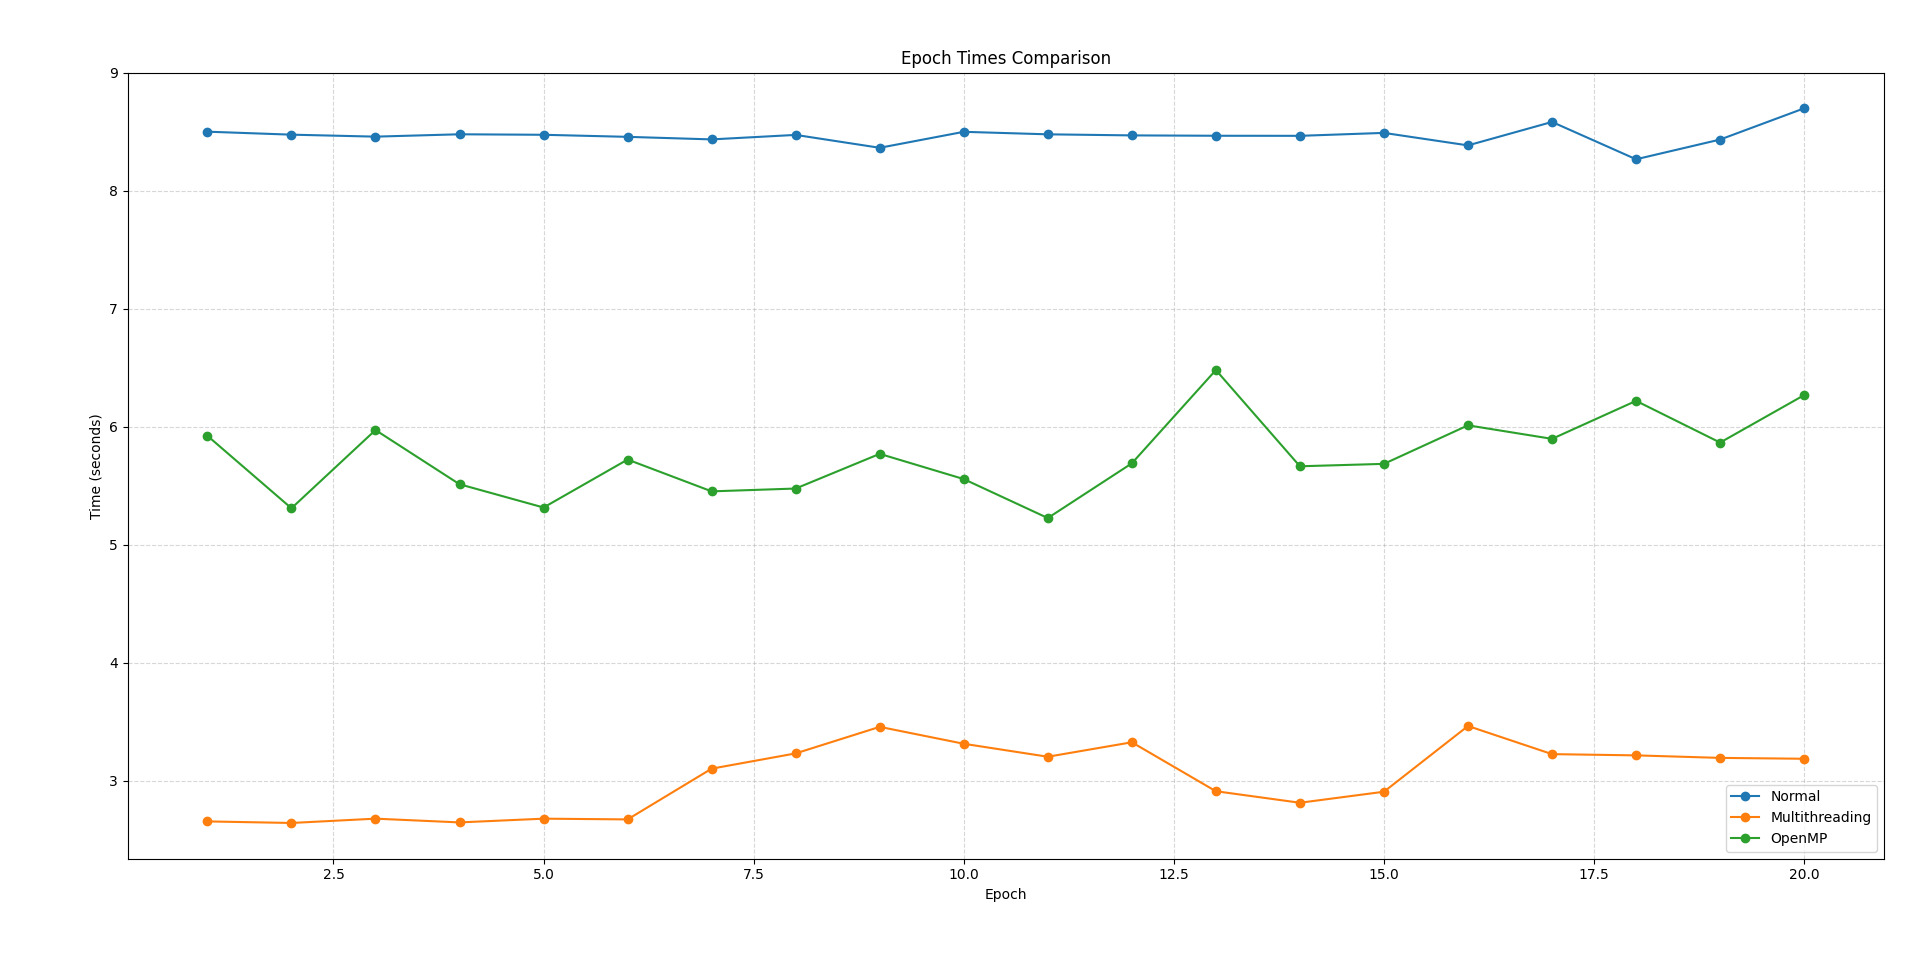
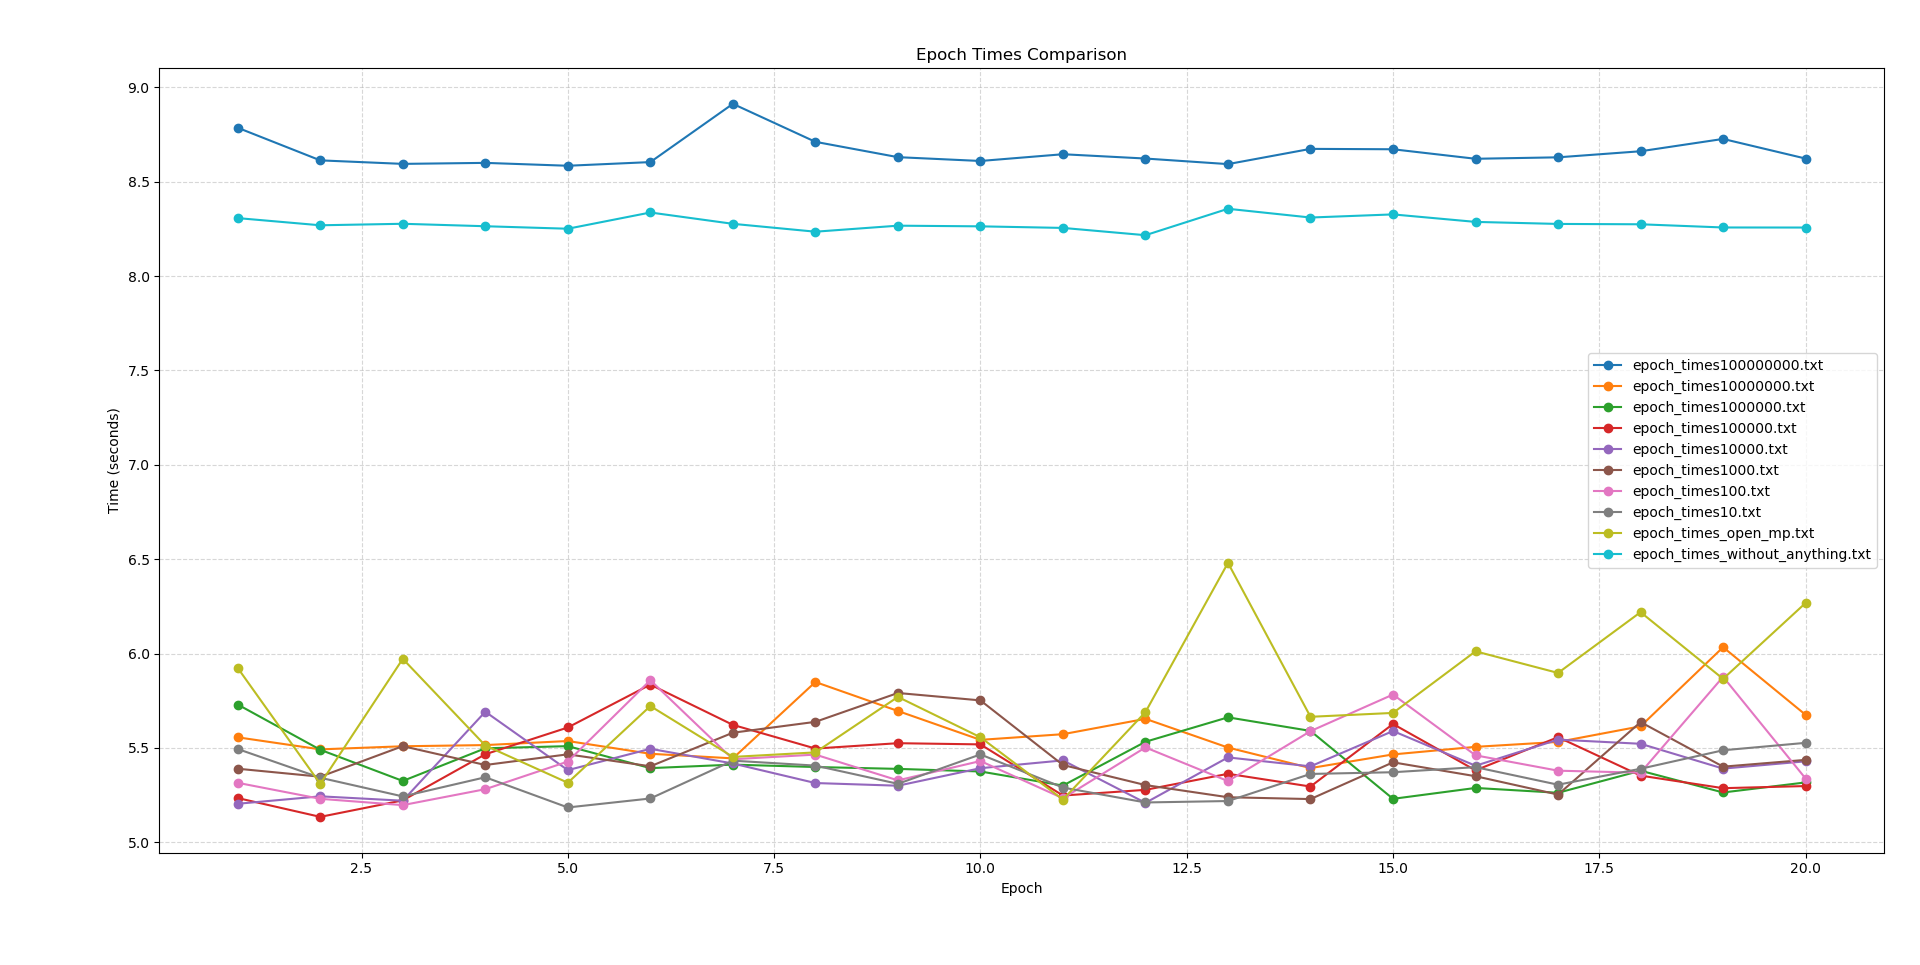
FEAT: calcul perfs

diff --git a/scripts/plot_epoch_times.py b/scripts/plot_epoch_times.py
@@ -1,6 +1,9 @@
+#!/usr/bin/env python3
+
 import matplotlib.pyplot as plt
 import sys
 import os
+import glob
 
 def plot_epoch_times(filenames, labels=None, title="Epoch Times Comparison"):
     plt.figure(figsize=(8, 5))
@@ -22,9 +25,21 @@ def plot_epoch_times(filenames, labels=None, title="Epoch Times Comparison"):
 
 if __name__ == "__main__":
     import argparse
-    parser = argparse.ArgumentParser(description="Plot epoch times from one or more .txt files.")
-    parser.add_argument('files', nargs='+', help='List of epoch_times.txt files to plot')
+    parser = argparse.ArgumentParser(description="Plot epoch times from one or more .txt files. Supports wildcards (globbing).")
+    parser.add_argument('files', nargs='+', help='List of epoch_times.txt files or glob patterns to plot')
     parser.add_argument('--labels', nargs='*', help='Labels for each curve (optional)')
     parser.add_argument('--title', default='Epoch Times Comparison', help='Plot title')
     args = parser.parse_args()
-    plot_epoch_times(args.files, labels=args.labels, title=args.title)
+
+    # Expand all glob patterns
+    expanded_files = []
+    for pattern in args.files:
+        matched = glob.glob(pattern)
+        if not matched:
+            print(f"No files matched pattern: {pattern}")
+        expanded_files.extend(matched)
+    if not expanded_files:
+        print("No files to plot.")
+        sys.exit(1)
+
+    plot_epoch_times(expanded_files, labels=args.labels, title=args.title)

diff --git a/src/linalg.cpp b/src/linalg.cpp
@@ -35,7 +35,7 @@ static size_t initParallelThreshold() {
         int num = std::atoi(env);
         if (num > 0) return static_cast<size_t>(num);
     }
-    return 100; // Default threshold
+    return 10000; // Default threshold
 }
 
 namespace Config {
